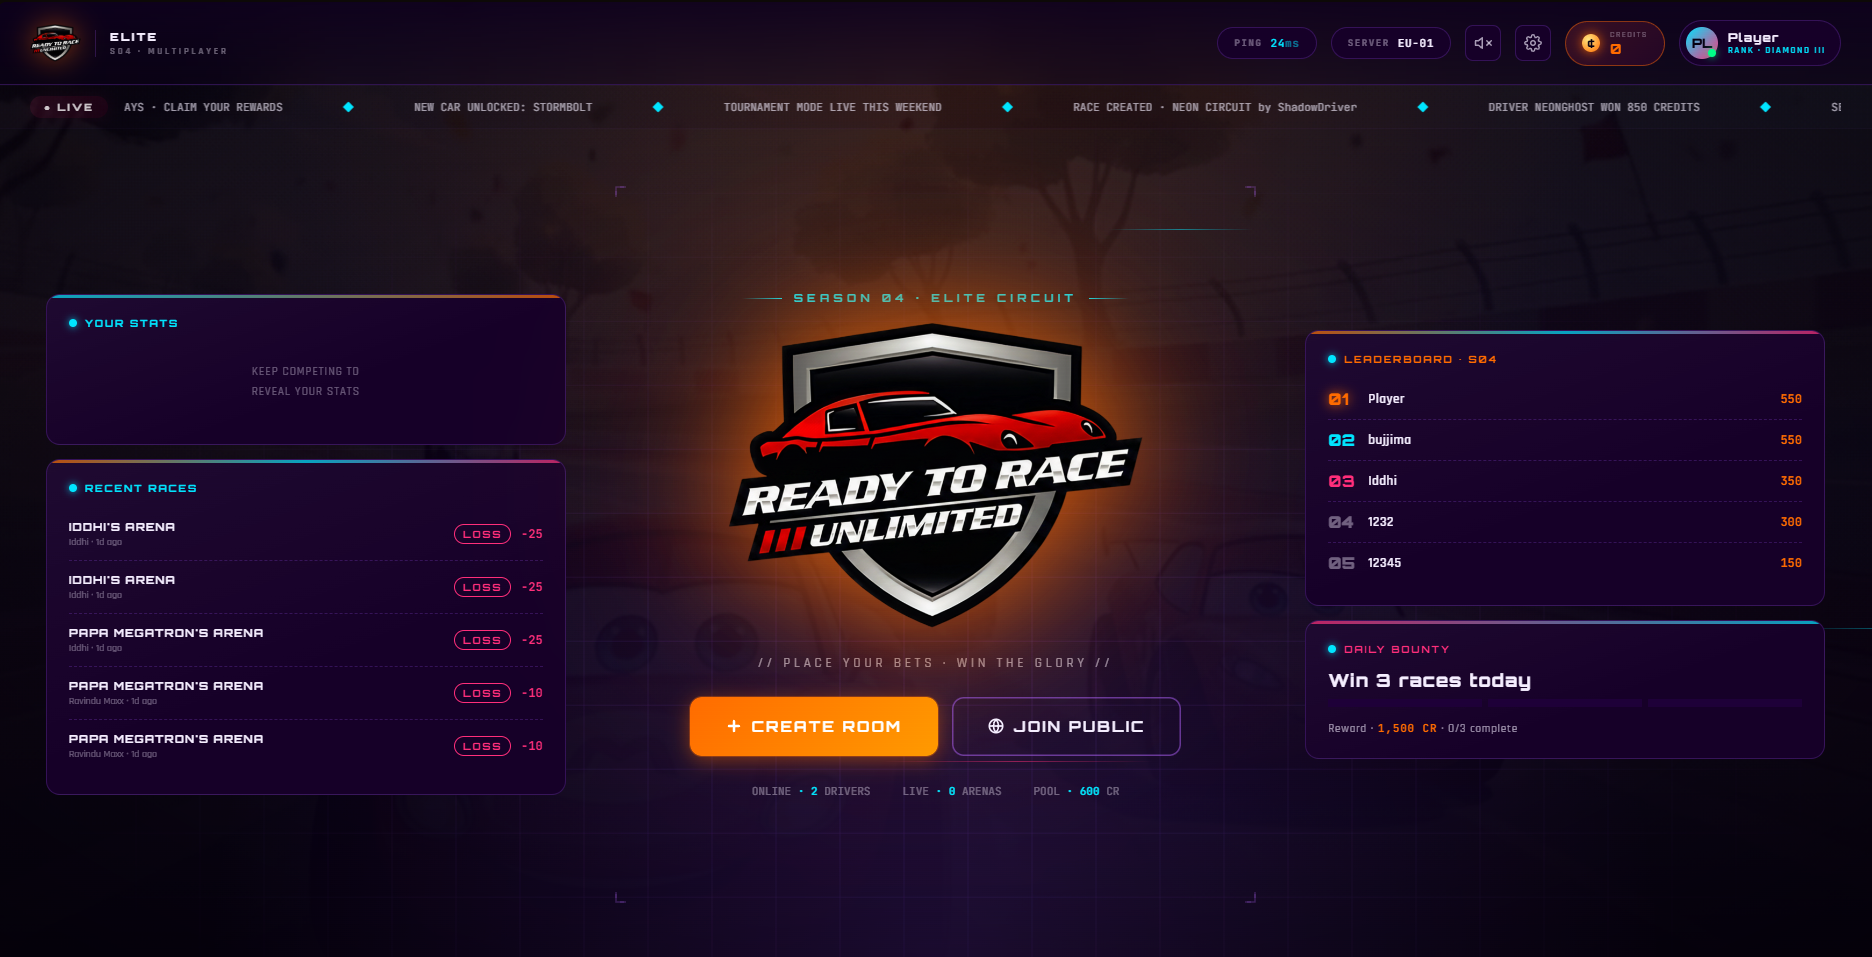
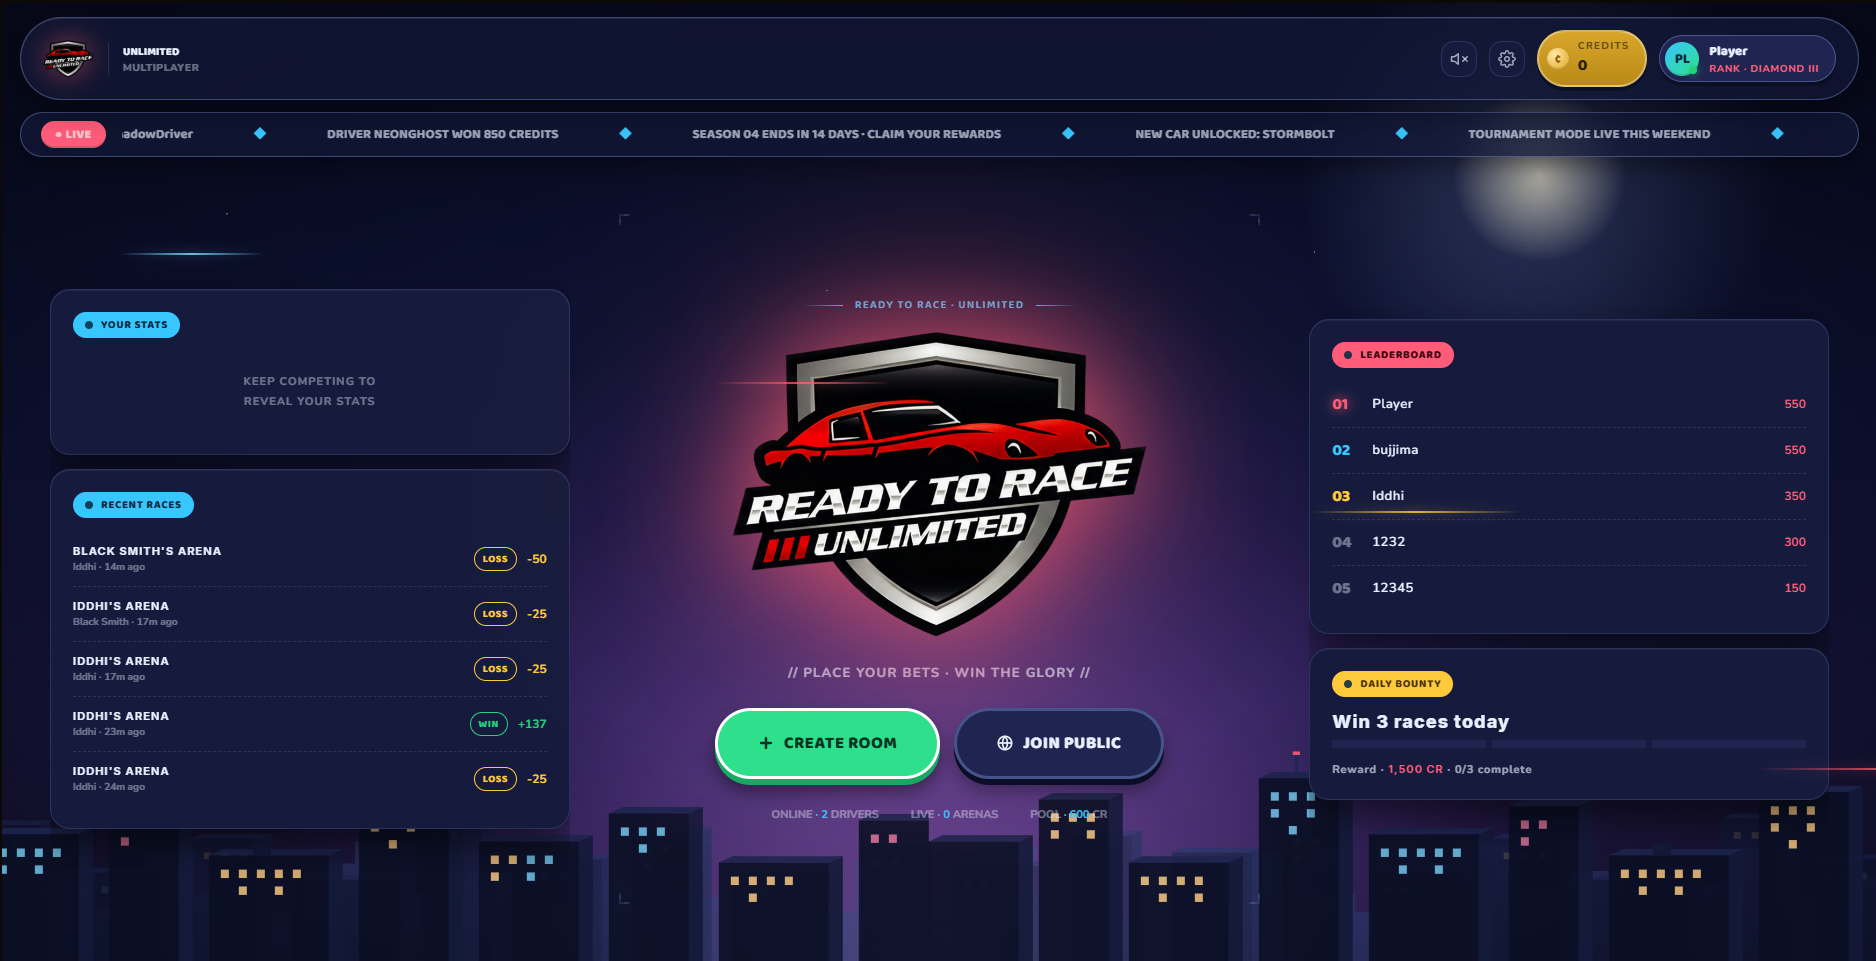
Add mobile overflow handling for case studies in projects.css

diff --git a/styles/projects/projects.css b/styles/projects/projects.css
@@ -1048,3 +1048,27 @@ a:focus-visible, button:focus-visible, [tabindex]:focus-visible {
   *, *::before, *::after { cursor: auto !important; }
   #cursor-dot, #cursor-canvas { display: none !important; }
 }
+
+
+/* ════════════════════════════════════════
+   Mobile horizontal-overflow guard — case studies (appended)
+
+   The case-study layout sits in a shrink-to-fit flex column, so .cs-wrap
+   grows to its widest descendant. On phones, long code specimens, wide
+   display-type words and unbreakable strings (URLs/tokens) could push the
+   page wider than the viewport and trigger horizontal scrolling. Pin the
+   column to the viewport and let those elements scroll / wrap / scale to fit.
+   (Selectors below only exist on case-study pages, so gallery pages ignore them.)
+   ════════════════════════════════════════ */
+@media (max-width: 768px) {
+  /* Pin the content column so internal overflow handling actually engages */
+  .cs-wrap { width: 100%; overflow-wrap: anywhere; }
+
+  /* Code specimens scroll inside their own box instead of widening the page */
+  .cs-code { max-width: 100%; }
+
+  /* Type-specimen heading scales down so long display words (e.g. "ORBITRON")
+     stay on one line — the per-page mobile rule pins it to a fixed 3.5rem,
+     which is too wide for some specimens on narrow screens. */
+  .typo-hero { font-size: clamp(2rem, 11vw, 3.5rem) !important; }
+}
